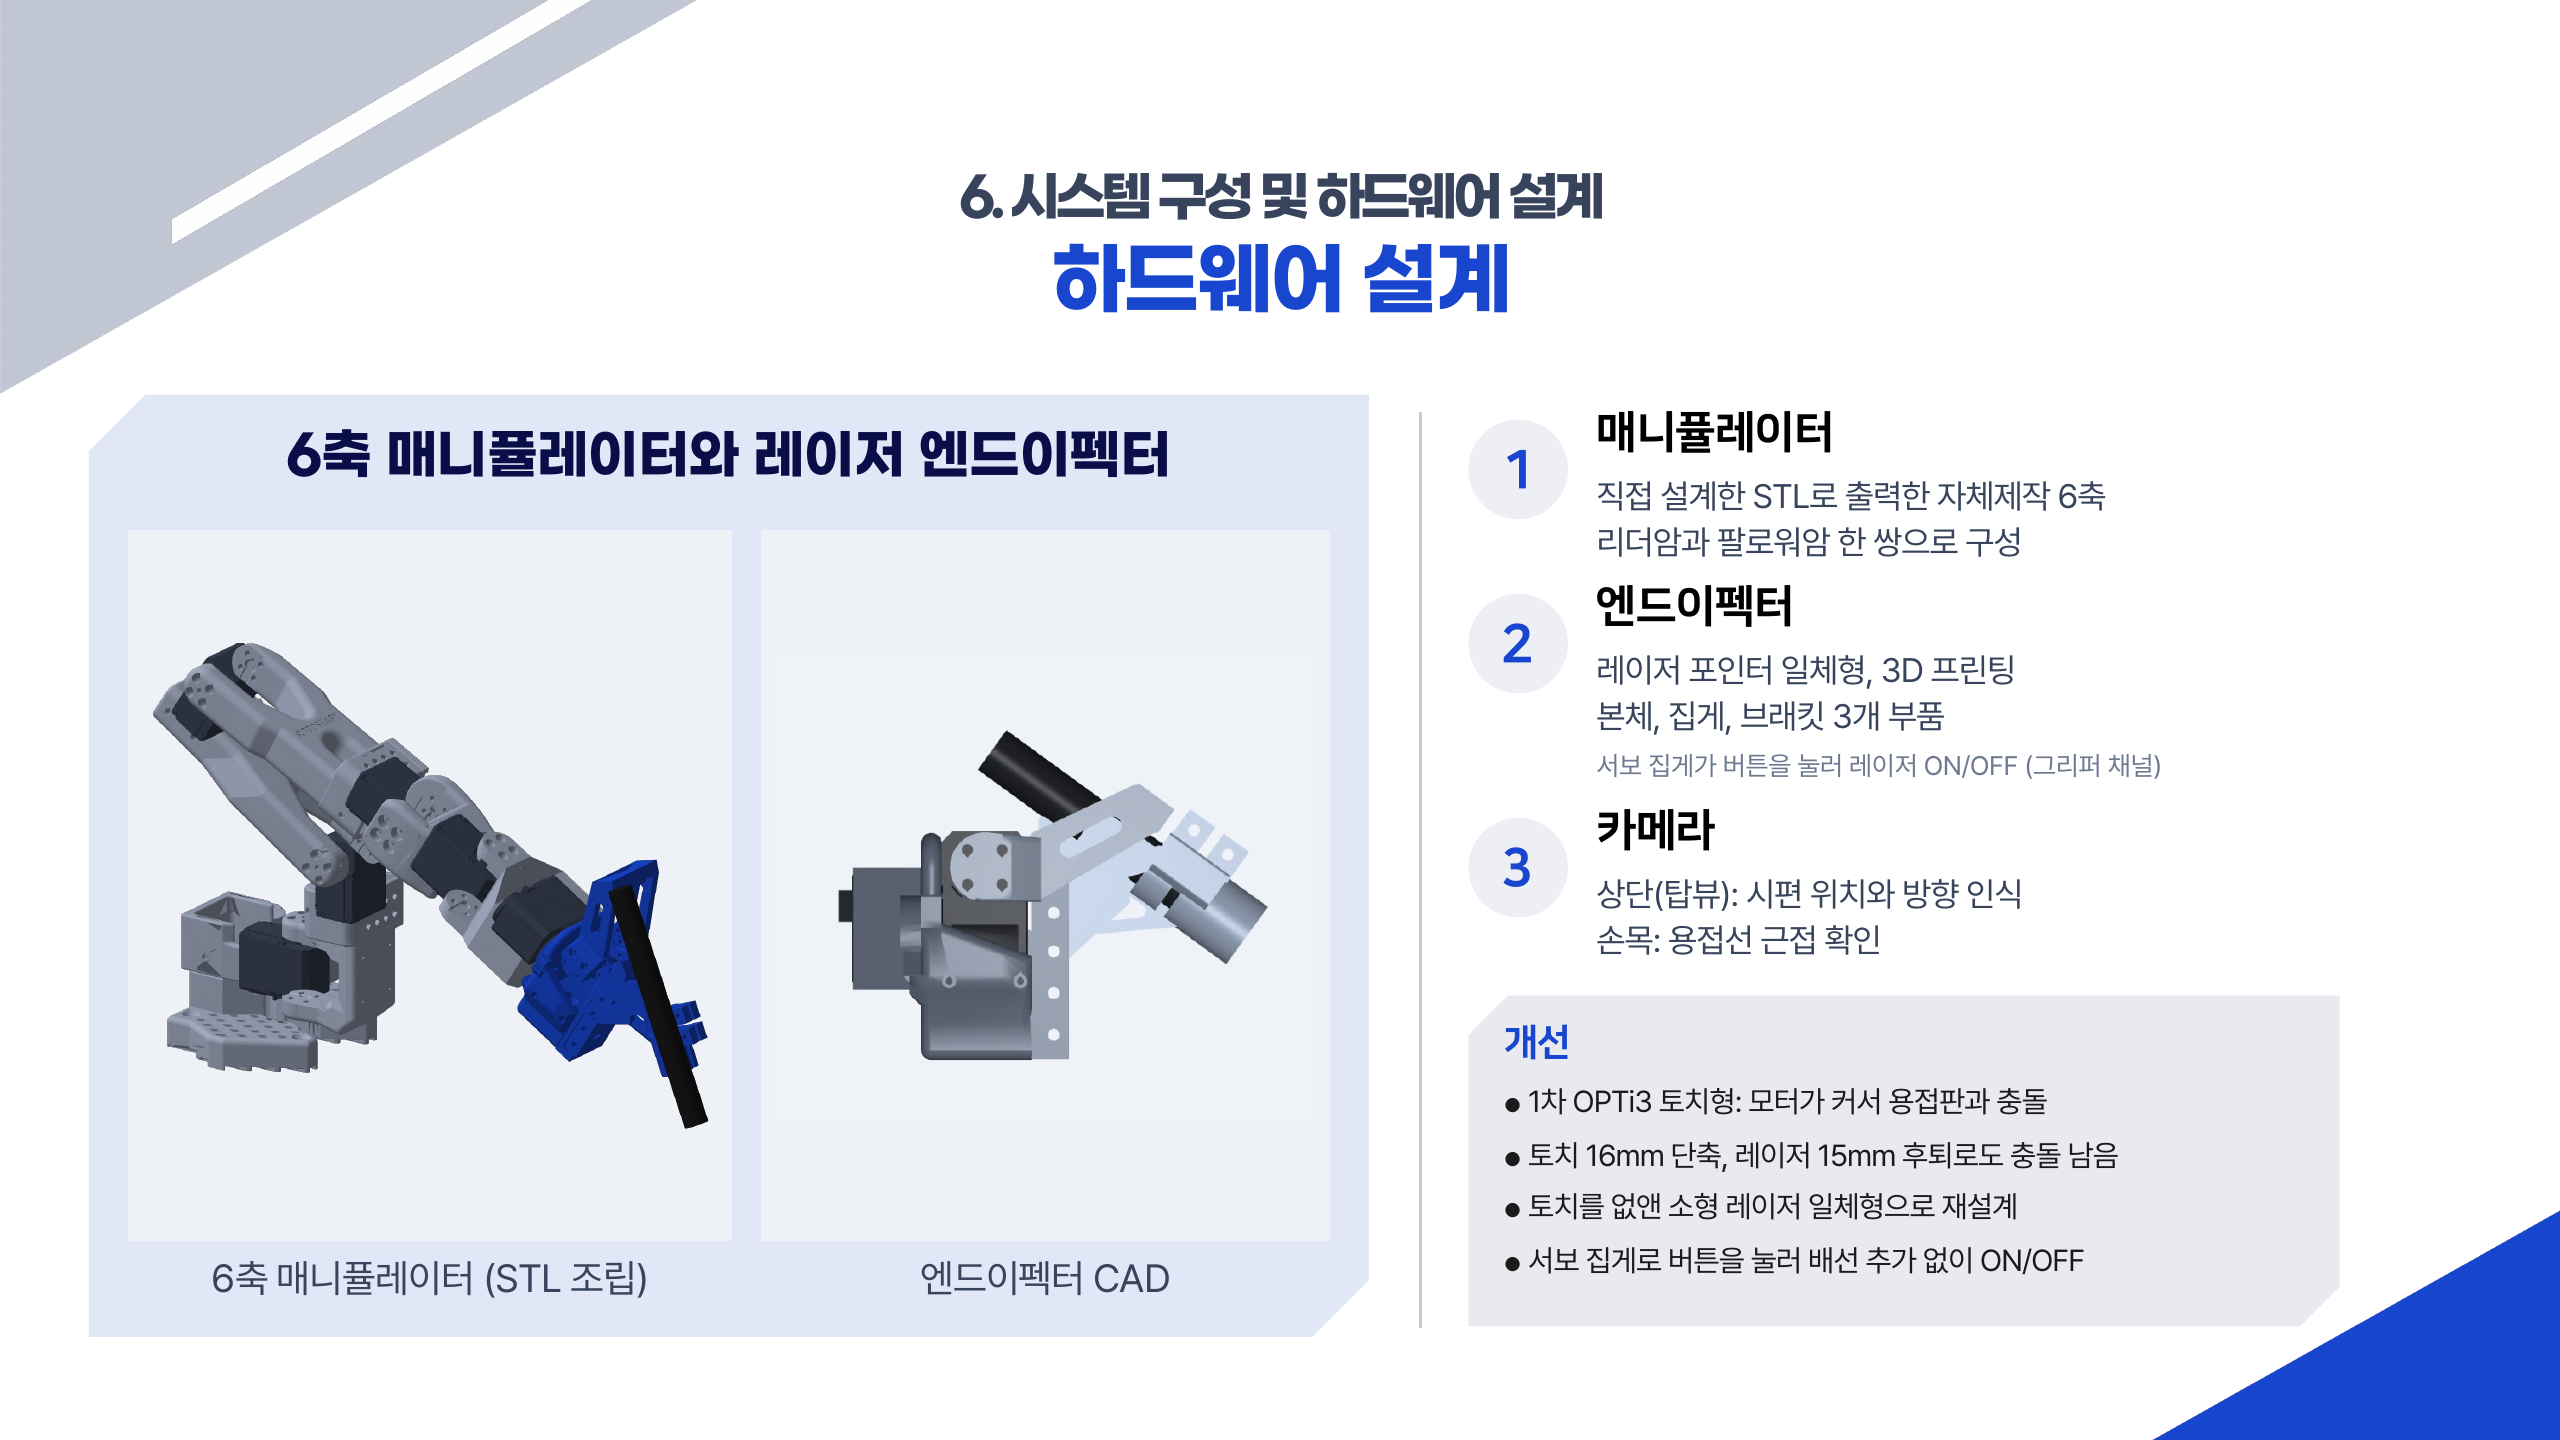
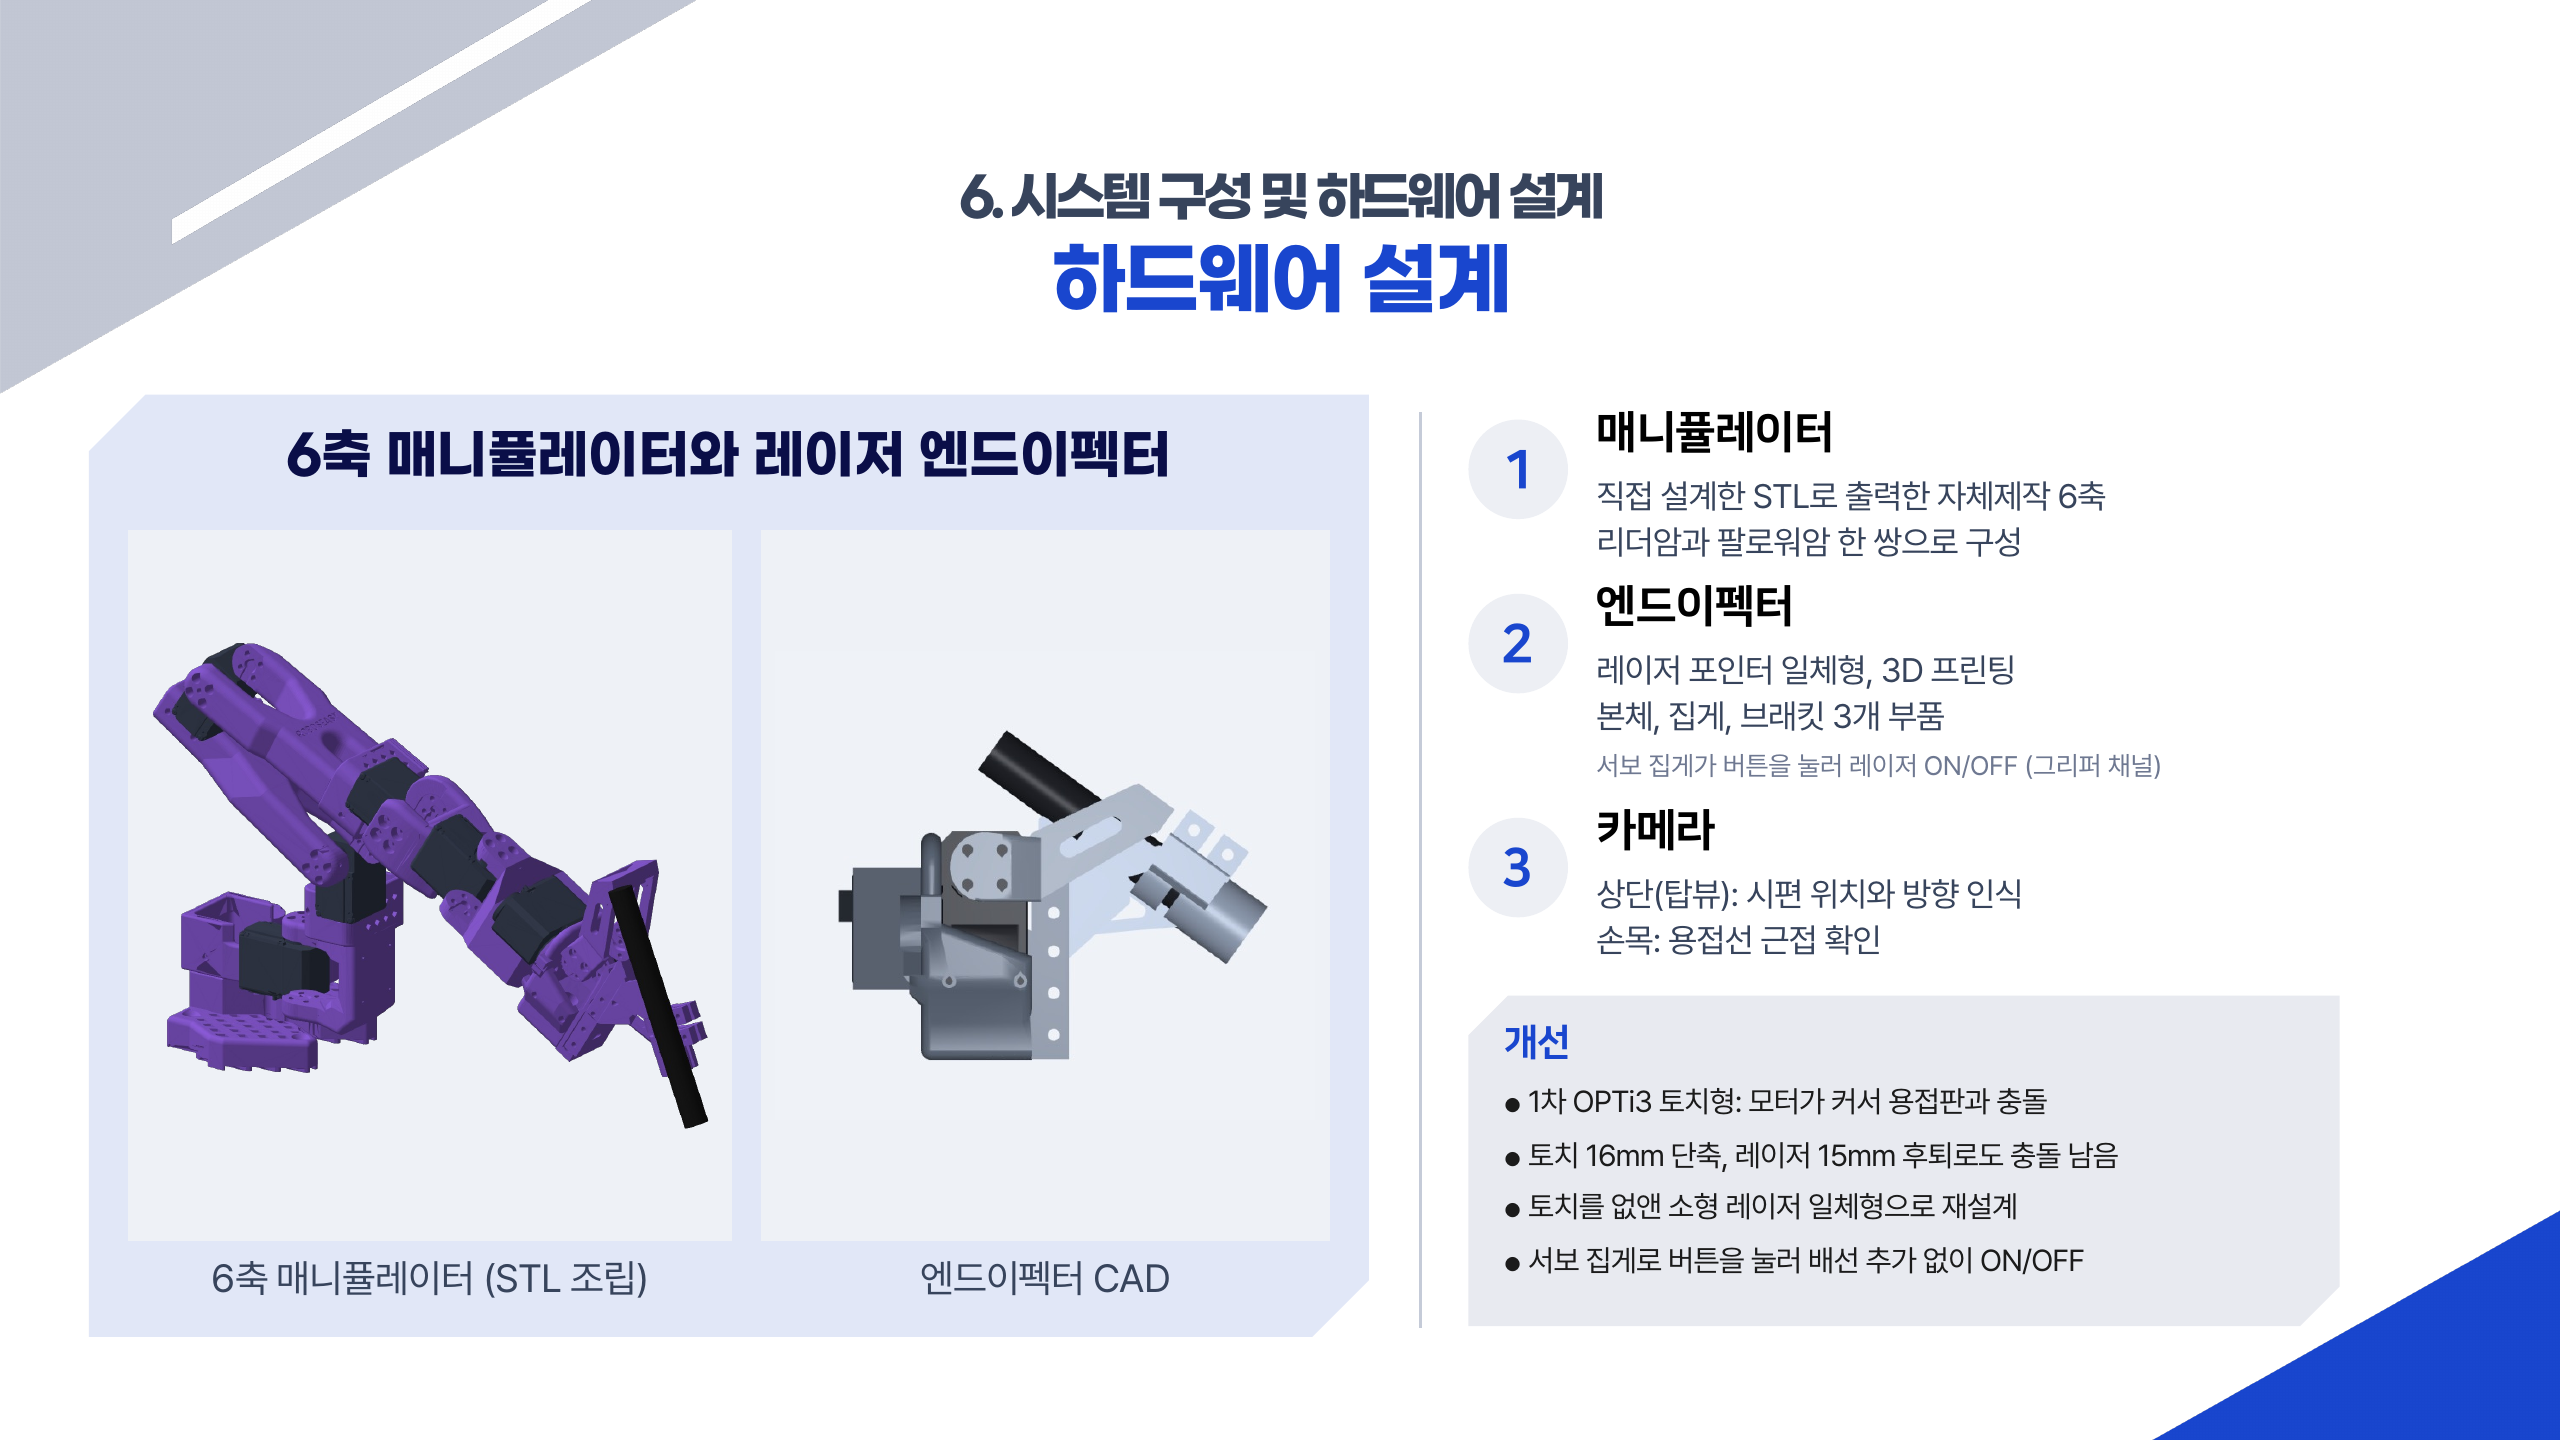
10장 매니퓰레이터 렌더를 실물처럼 보라색으로

Changed region(s): [[0.0625, 0.4375, 0.2812, 0.75]]

diff --git a/index.html b/index.html
@@ -42,30 +42,30 @@
 </head>
 <body>
 <main class="stage" id="stage">
-  <img class="slide" src="deck/final/01.png?v=11120312" alt="2026 IRC 지능로봇대회 매니퓰레이터 종목. 제조 디지털 전환(DX) 6축 용접 로봇. 손태산, 김광빈, 김동희, 왕혜영">
-  <img class="slide" src="deck/final/02.png?v=11120312" alt="목차" loading="lazy">
-  <img class="slide" src="deck/final/03.png?v=11120312" alt="1. 프로젝트 개요. 6축 자율용접 로봇" loading="lazy">
-  <img class="slide" src="deck/final/04.png?v=11120312" alt="2. 프로젝트 수행 배경: 숙련 기술의 단절과 기존 자동용접의 한계. 실내 철골 제작공장 자동용접 사진, 강교량 야외 건설현장 사진" loading="lazy">
-  <img class="slide" src="deck/final/05.png?v=11120312" alt="3. 프로젝트 수행 필요성: 숙련 기술의 계승과 비정형 환경 대응을 위한 자율용접 기술의 필요성" loading="lazy">
+  <img class="slide" src="deck/final/01.png?v=11120318" alt="2026 IRC 지능로봇대회 매니퓰레이터 종목. 제조 디지털 전환(DX) 6축 용접 로봇. 손태산, 김광빈, 김동희, 왕혜영">
+  <img class="slide" src="deck/final/02.png?v=11120318" alt="목차" loading="lazy">
+  <img class="slide" src="deck/final/03.png?v=11120318" alt="1. 프로젝트 개요. 6축 자율용접 로봇" loading="lazy">
+  <img class="slide" src="deck/final/04.png?v=11120318" alt="2. 프로젝트 수행 배경: 숙련 기술의 단절과 기존 자동용접의 한계. 실내 철골 제작공장 자동용접 사진, 강교량 야외 건설현장 사진" loading="lazy">
+  <img class="slide" src="deck/final/05.png?v=11120318" alt="3. 프로젝트 수행 필요성: 숙련 기술의 계승과 비정형 환경 대응을 위한 자율용접 기술의 필요성" loading="lazy">
   <div class="slide">
-    <img src="deck/final/06.png?v=11120312" alt="4. 개발 목표 및 차별성: 룰 베이스를 넘어 숙련 행동 학습으로. OPTi3 용접로봇 전시 시연과 실제 아크 용접 영상, 기존 룰 베이스와 본 프로젝트 비교, 최종 개발 목표" loading="lazy">
+    <img src="deck/final/06.png?v=11120318" alt="4. 개발 목표 및 차별성: 룰 베이스를 넘어 숙련 행동 학습으로. OPTi3 용접로봇 전시 시연과 실제 아크 용접 영상, 기존 룰 베이스와 본 프로젝트 비교, 최종 개발 목표" loading="lazy">
     <!-- PPT 6장 영상 자리(x 60/468, y 270, 392×294pt / 1440×810pt)에 맞춰 올린 6초~20초 구간 GIF -->
-    <img class="clip" style="left:4.1667%; top:33.333%; width:27.222%; height:36.296%;" src="deck/img/opti3_demo.gif?v=11120312" alt="OPTi3 전시 시연 6초에서 20초 구간" loading="lazy">
-    <img class="clip" style="left:32.5%; top:33.333%; width:27.222%; height:36.296%;" src="deck/img/opti3_arc.gif?v=11120312" alt="OPTi3 실제 아크 용접 6초에서 20초 구간" loading="lazy">
+    <img class="clip" style="left:4.1667%; top:33.333%; width:27.222%; height:36.296%;" src="deck/img/opti3_demo.gif?v=11120318" alt="OPTi3 전시 시연 6초에서 20초 구간" loading="lazy">
+    <img class="clip" style="left:32.5%; top:33.333%; width:27.222%; height:36.296%;" src="deck/img/opti3_arc.gif?v=11120318" alt="OPTi3 실제 아크 용접 6초에서 20초 구간" loading="lazy">
   </div>
-  <img class="slide" src="deck/final/07.png?v=11120312" alt="5. 개발 대상 및 자율 작업 시나리오: 수평 접합선에 대응하는 자율용접 작업 구현. 3면 직각 시편과 T형 필릿 시편" loading="lazy">
-  <img class="slide" src="deck/final/08.png?v=11120312" alt="6. 시스템 구성 및 하드웨어 설계: 자율용접 로봇 시스템 아키텍처" loading="lazy">
-  <img class="slide" src="deck/final/09.png?v=11120312" alt="6. 시스템 구성 및 하드웨어 설계: 역할을 나눈 세 가지 AI. ACT 모방학습(제어), YOLO 용접선 검출(인식과 검증), 손 검출 인터록(안전)" loading="lazy">
-  <img class="slide" src="deck/final/10.png?v=11120312" alt="6. 시스템 구성 및 하드웨어 설계: 하드웨어 설계. SolidWorks 조립 기반 6축 매니퓰레이터와 레이저 엔드이펙터 렌더, 엔드이펙터 CAD, 매니퓰레이터, 엔드이펙터, 카메라, 개선 내용" loading="lazy">
-  <img class="slide" src="deck/final/11.png?v=11120312" alt="6. 시스템 구성 및 하드웨어 설계: 직접 개선한 기술. 엔드이펙터 설계 변천 v1, v2, v3, 최종 레이저 일체형" loading="lazy">
-  <img class="slide" src="deck/final/12.png?v=11120312" alt="7. 실시간 작업 모니터링: 웹 대시보드로 보는 영상과 로봇 상태" loading="lazy">
-  <img class="slide" src="deck/final/13.png?v=11120312" alt="7. 실시간 작업 모니터링: YOLO 용접선 검출과 진행 표시, 성공 판정 기준" loading="lazy">
-  <img class="slide" src="deck/final/14.png?v=11120312" alt="7. 실시간 작업 모니터링: YOLO 추론 최적화로 2.1배 가속. PyTorch에서 ONNX, TensorRT FP16 변환, 1회 추론 시간 중앙값 8.1 ms에서 3.8 ms, 정확도 유지, ACT 정책 변환 예정" loading="lazy">
-  <img class="slide" src="deck/final/15.png?v=11120312" alt="8. ACT 기반 모방학습 및 자율 제어: 시연, 기록, ACT 학습, 자율 실행, ACT는 동작을 묶음으로 예측" loading="lazy">
-  <img class="slide" src="deck/final/16.png?v=11120312" alt="9. 자율 용접 시연: 임의 배치 시편 자율용접 시연, 확인 항목, 시연 시편(T자 필릿, 3면 직각)" loading="lazy">
-  <img class="slide" src="deck/final/17.png?v=11120312" alt="9. 자율 용접 시연: 시연 결과와 성공 기준" loading="lazy">
-  <img class="slide" src="deck/final/18.png?v=11120312" alt="10. 결론 및 향후 과제" loading="lazy">
-  <img class="slide" src="deck/final/19.png?v=11120312" alt="10. 결론 및 향후 과제: 한계점과 향후 과제, 홈페이지 QR 코드" loading="lazy">
+  <img class="slide" src="deck/final/07.png?v=11120318" alt="5. 개발 대상 및 자율 작업 시나리오: 수평 접합선에 대응하는 자율용접 작업 구현. 3면 직각 시편과 T형 필릿 시편" loading="lazy">
+  <img class="slide" src="deck/final/08.png?v=11120318" alt="6. 시스템 구성 및 하드웨어 설계: 자율용접 로봇 시스템 아키텍처" loading="lazy">
+  <img class="slide" src="deck/final/09.png?v=11120318" alt="6. 시스템 구성 및 하드웨어 설계: 역할을 나눈 세 가지 AI. ACT 모방학습(제어), YOLO 용접선 검출(인식과 검증), 손 검출 인터록(안전)" loading="lazy">
+  <img class="slide" src="deck/final/10.png?v=11120318" alt="6. 시스템 구성 및 하드웨어 설계: 하드웨어 설계. SolidWorks 조립 기반 6축 매니퓰레이터와 레이저 엔드이펙터 렌더, 엔드이펙터 CAD, 매니퓰레이터, 엔드이펙터, 카메라, 개선 내용" loading="lazy">
+  <img class="slide" src="deck/final/11.png?v=11120318" alt="6. 시스템 구성 및 하드웨어 설계: 직접 개선한 기술. 엔드이펙터 설계 변천 v1, v2, v3, 최종 레이저 일체형" loading="lazy">
+  <img class="slide" src="deck/final/12.png?v=11120318" alt="7. 실시간 작업 모니터링: 웹 대시보드로 보는 영상과 로봇 상태" loading="lazy">
+  <img class="slide" src="deck/final/13.png?v=11120318" alt="7. 실시간 작업 모니터링: YOLO 용접선 검출과 진행 표시, 성공 판정 기준" loading="lazy">
+  <img class="slide" src="deck/final/14.png?v=11120318" alt="7. 실시간 작업 모니터링: YOLO 추론 최적화로 2.1배 가속. PyTorch에서 ONNX, TensorRT FP16 변환, 1회 추론 시간 중앙값 8.1 ms에서 3.8 ms, 정확도 유지, ACT 정책 변환 예정" loading="lazy">
+  <img class="slide" src="deck/final/15.png?v=11120318" alt="8. ACT 기반 모방학습 및 자율 제어: 시연, 기록, ACT 학습, 자율 실행, ACT는 동작을 묶음으로 예측" loading="lazy">
+  <img class="slide" src="deck/final/16.png?v=11120318" alt="9. 자율 용접 시연: 임의 배치 시편 자율용접 시연, 확인 항목, 시연 시편(T자 필릿, 3면 직각)" loading="lazy">
+  <img class="slide" src="deck/final/17.png?v=11120318" alt="9. 자율 용접 시연: 시연 결과와 성공 기준" loading="lazy">
+  <img class="slide" src="deck/final/18.png?v=11120318" alt="10. 결론 및 향후 과제" loading="lazy">
+  <img class="slide" src="deck/final/19.png?v=11120318" alt="10. 결론 및 향후 과제: 한계점과 향후 과제, 홈페이지 QR 코드" loading="lazy">
 </main>
 
 <div class="bar">

diff --git a/project.html b/project.html
@@ -99,7 +99,7 @@
   <h2><small>01</small>무엇을 만들었나</h2>
   <div class="two">
     <figure>
-      <img class="tall" src="project/img/s3_robot.jpg?v=11120312" alt="3D 프린팅한 레이저 일체형 엔드이펙터를 단 자체 제작 로봇 팔" loading="lazy">
+      <img class="tall" src="project/img/s3_robot.jpg?v=11120318" alt="3D 프린팅한 레이저 일체형 엔드이펙터를 단 자체 제작 로봇 팔" loading="lazy">
       <figcaption>자체 제작 6축 로봇의 레이저 일체형 엔드이펙터</figcaption>
     </figure>
     <div>
@@ -123,7 +123,7 @@
 <section id="system">
   <h2><small>02</small>시스템 구성</h2>
   <figure>
-    <img src="project/img/architecture.png?v=11120312" alt="시스템 구성도. 상단과 손목 카메라 영상이 로컬 PC의 ACT 정책으로 들어가고, 정책의 목표 관절값이 서보 제어를 거쳐 6축 매니퓰레이터와 엔드이펙터로 전달됨. 손 검출 시 정지, 웹 클라이언트로 영상과 상태 전송" loading="lazy">
+    <img src="project/img/architecture.png?v=11120318" alt="시스템 구성도. 상단과 손목 카메라 영상이 로컬 PC의 ACT 정책으로 들어가고, 정책의 목표 관절값이 서보 제어를 거쳐 6축 매니퓰레이터와 엔드이펙터로 전달됨. 손 검출 시 정지, 웹 클라이언트로 영상과 상태 전송" loading="lazy">
   </figure>
   <ul class="plain">
     <li>카메라 2대(상단, 손목) 영상이 USB로 로컬 PC에 들어옵니다.</li>
@@ -153,7 +153,7 @@
   <h3>엔드이펙터 출력 파일</h3>
   <div class="two">
     <figure>
-      <img src="project/img/ee_cad.png?v=11120312" alt="최종 레이저 일체형 엔드이펙터 CAD. 서보와 본체, 레이저 포인터를 잡는 집게와 브래킷" loading="lazy">
+      <img src="project/img/ee_cad.png?v=11120318" alt="최종 레이저 일체형 엔드이펙터 CAD. 서보와 본체, 레이저 포인터를 잡는 집게와 브래킷" loading="lazy">
       <figcaption>최종 레이저 일체형 엔드이펙터</figcaption>
     </figure>
     <div>
@@ -177,7 +177,7 @@
   <h2><small>04</small>엔드이펙터 개선 과정</h2>
   <div class="two">
     <figure>
-      <img src="project/img/ee_torch_old.jpg?v=11120312" alt="1차 설계인 OPTi3 축소 토치형 엔드이펙터 CAD. 토치 옆에 레이저와 서보가 달려 있음" loading="lazy">
+      <img src="project/img/ee_torch_old.jpg?v=11120318" alt="1차 설계인 OPTi3 축소 토치형 엔드이펙터 CAD. 토치 옆에 레이저와 서보가 달려 있음" loading="lazy">
       <figcaption>1차 설계: OPTi3 축소 토치형 (토치 단축, 레이저 후퇴 적용 후)</figcaption>
     </figure>
     <div>
